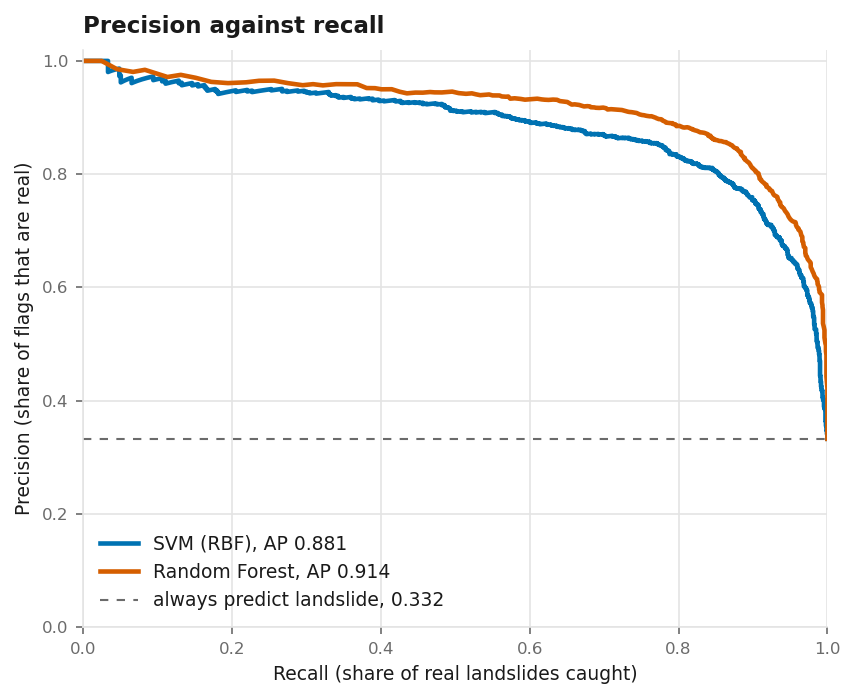
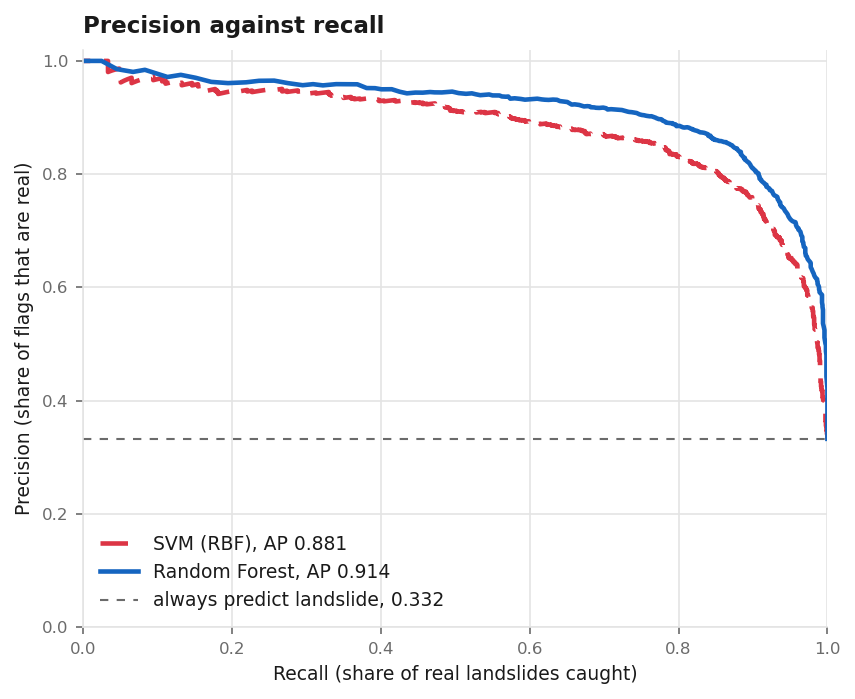
style: scheme 4 clean white academic theme — Phase 2 files
- .streamlit/config.toml: primary #1565c0, background #ffffff,
  secondary #f0f4f8, text #222222, sans serif (usage stats and
  toolbar settings kept)
- viz.py: model colours separate from class colours, Random Forest
  #1565c0 solid and SVM #dc3545 dashed; class colours unchanged
- evaluate.py: ROC and precision-recall use them; figures regenerated,
  metrics unchanged
- demo_map.py: zone ramp to scheme 4, light to dark, lightness steps
  at least 10 L* and colour-blind separation at least 19 (measured);
  light basemap moved from CartoDB (now serves "API KEY REQUIRED"
  tiles) to Esri World Light Gray
- dashboard/app.py: synthetic banner and watermark in scheme 4 tokens
- docs/decisions.md: the colour decision with its measurements

diff --git a/src/demo_map.py b/src/demo_map.py
@@ -52,11 +52,13 @@ MODELS = {
     "svm": ("SVM (RBF)", config.SVM_MODEL_PATH),
 }
 
-# One hue, light to dark, for five ordered zones: an ordinal scale, so no rainbow and no
-# green-to-red (which also fails for red-green colour-blind readers). Vermillion matches the
-# landslide colour in every report figure. Checked with a palette validator for an ordinal ramp on
-# a light basemap: every step clears 2:1 contrast and neighbouring steps stay distinguishable.
-ZONE_COLOURS = ["#ec9a60", "#e27a3a", "#d55e00", "#a94700", "#6e2c00"]
+# Five ordered zones on one light-to-dark ramp (scheme 4, 17 September 2026; replaces a single vermillion ramp).
+# The order is carried by lightness, so the map still reads in black and white: CIELAB L* 91.5, 81.6, 69.7,
+# 48.5, 19.7, every step at least 10 units. Neighbouring zones stay apart for red-green colour-blind readers:
+# simulated deuteranopia and protanopia (Machado et al. 2009) give a colour difference of at least 19.
+# Low was lightened from #74c476 to #a1d99b because that shade sat only 2.9 L* above Moderate.
+# Imported by map_generator_full.py, predict_raster_full.py and dashboard_v2, so every map shares it.
+ZONE_COLOURS = ["#d4edda", "#a1d99b", "#fd8d3c", "#e31a1c", "#67000d"]
 
 # SYNTHETIC MODELS ONLY. The simulated dataset invented its own class names, while the rasters carry
 # WorldCover and SoilGrids names. Without a bridge every real class would be unknown to the model and
@@ -234,7 +236,12 @@ def render_map(zones: np.ndarray, grid: dict, geometry, zone_rows: list[dict], l
 
     fmap = folium.Map(location=[(south + north) / 2, (west + east) / 2], zoom_start=10,
                       tiles=None, control_scale=True)
-    folium.TileLayer("CartoDB positron", name="Light basemap").add_to(fmap)
+    # Esri's light canvas, not CartoDB positron: CartoDB started requiring an API key and now serves tiles
+    # stamped "API KEY REQUIRED" (seen 17 September 2026). Esri needs no key, like the imagery layer below.
+    folium.TileLayer(
+        tiles="https://server.arcgisonline.com/ArcGIS/rest/services/Canvas/World_Light_Gray_Base/MapServer/tile/"
+              "{z}/{y}/{x}",
+        attr="Tiles &copy; Esri", name="Light basemap", max_zoom=16).add_to(fmap)
     folium.TileLayer("OpenStreetMap", name="OpenStreetMap").add_to(fmap)
     folium.TileLayer(
         tiles="https://server.arcgisonline.com/ArcGIS/rest/services/World_Imagery/MapServer/tile/{z}/{y}/{x}",

diff --git a/src/evaluate.py b/src/evaluate.py
@@ -112,12 +112,13 @@ def plot_roc(y_true, scored: dict):
     import matplotlib.pyplot as plt
     from sklearn.metrics import roc_auc_score, roc_curve
 
-    colours = {"SVM (RBF)": viz.STABLE, "Random Forest": viz.LANDSLIDE}
+    colours = viz.MODEL_COLORS
     fig, ax = plt.subplots(figsize=(6.4, 6))
     for name, scores in scored.items():
         fpr, tpr, _ = roc_curve(y_true, scores)
         auc = roc_auc_score(y_true, scores)
-        ax.plot(fpr, tpr, color=colours[name], linewidth=2.2, label=f"{name}, AUC {auc:.3f}")
+        ax.plot(fpr, tpr, color=colours[name], linestyle=viz.MODEL_LINESTYLES[name], linewidth=2.2,
+                label=f"{name}, AUC {auc:.3f}")
     ax.plot([0, 1], [0, 1], color=viz.MUTED, linewidth=1, linestyle=(0, (4, 4)),
             label="random guessing, AUC 0.500")
     ax.set_xlabel("False positive rate (stable ground flagged as risky)")
@@ -160,13 +161,14 @@ def plot_precision_recall(y_true, scored: dict):
     import matplotlib.pyplot as plt
     from sklearn.metrics import average_precision_score, precision_recall_curve
 
-    colours = {"SVM (RBF)": viz.STABLE, "Random Forest": viz.LANDSLIDE}
+    colours = viz.MODEL_COLORS
     base = float(np.mean(y_true))
     fig, ax = plt.subplots(figsize=(6.4, 5))
     for name, scores in scored.items():
         precision, recall, _ = precision_recall_curve(y_true, scores)
         ap = average_precision_score(y_true, scores)
-        ax.plot(recall, precision, color=colours[name], linewidth=2.2, label=f"{name}, AP {ap:.3f}")
+        ax.plot(recall, precision, color=colours[name], linestyle=viz.MODEL_LINESTYLES[name], linewidth=2.2,
+                label=f"{name}, AP {ap:.3f}")
     ax.axhline(base, color=viz.MUTED, linewidth=1, linestyle=(0, (4, 4)),
                label=f"always predict landslide, {base:.3f}")
     ax.set_xlabel("Recall (share of real landslides caught)")

diff --git a/dashboard/app.py b/dashboard/app.py
@@ -41,7 +41,7 @@ WATERMARK_HTML = """
   position: fixed; top: 55%; left: 50%;
   transform: translate(-50%, -50%) rotate(-24deg);
   font: 800 clamp(3rem, 9vw, 7rem)/1 system-ui, -apple-system, "Segoe UI", sans-serif;
-  letter-spacing: 0.06em; color: rgba(213, 94, 0, 0.08);
+  letter-spacing: 0.06em; color: rgba(227, 26, 28, 0.08);  /* scheme 4 danger #e31a1c, faint */
   white-space: nowrap; pointer-events: none; user-select: none; z-index: 999;
 }
 </style>
@@ -141,11 +141,12 @@ def evaluation_section() -> dict:
 def synthetic_banner() -> None:
     """The first thing an examiner sees on the homepage: these results test the pipeline, they are not findings."""
     st.markdown(
-        '<div style="border:2px solid #D55E00;border-left-width:8px;border-radius:6px;padding:14px 18px;'
-        'margin:0 0 1.2rem;background:rgba(213,94,0,0.06)">'
-        '<div style="font-weight:800;font-size:1.2rem;letter-spacing:0.05em;color:#0b0b0b">'
+        # Scheme 4: danger red #e31a1c on a faint tint, text in the theme's #222222.
+        '<div style="border:2px solid #e31a1c;border-left-width:8px;border-radius:6px;padding:14px 18px;'
+        'margin:0 0 1.2rem;background:rgba(227,26,28,0.06)">'
+        '<div style="font-weight:800;font-size:1.2rem;letter-spacing:0.05em;color:#222222">'
         'SYNTHETIC DATA: RESULTS ARE NOT FINAL</div>'
-        '<div style="margin-top:6px;color:#1a1a1a">Every number, chart, prediction and map in this dashboard '
+        '<div style="margin-top:6px;color:#222222">Every number, chart, prediction and map in this dashboard '
         'comes from a simulated dataset built to test the pipeline end to end. The real GSI landslide '
         'inventory has not been processed yet, so none of these results describe Uttarakhand. Both models '
         'will be retrained on real data before any result is reported.</div></div>',

diff --git a/src/viz.py b/src/viz.py
@@ -7,6 +7,10 @@ landslides. Checked with a palette validator: colour-blind separation dE 21.9
 3:1 contrast on a light page. So the two classes stay apart for colour-blind
 readers and in greyscale printing, which matters for a printed report.
 
+Model colours are separate from class colours (scheme 4, 17 September 2026): Random Forest blue #1565c0 and
+SVM red #dc3545, used wherever the two models are drawn against each other (ROC and precision-recall curves).
+They name models, never classes, so a landslide/stable chart keeps the class colours above.
+
 Correlations use a diverging blue-to-red scale with a neutral midpoint, because
 the value has a natural centre at zero. Never a rainbow scale: it invents
 boundaries where the data has none.
@@ -23,6 +27,13 @@ STABLE = "#0072B2"
 LANDSLIDE = "#D55E00"
 CLASS_COLORS = {0: STABLE, 1: LANDSLIDE}
 CLASS_LABELS = {0: "No landslide", 1: "Landslide"}
+
+# Model colours (scheme 4): kept apart from the class colours on purpose
+RF_COLOR = "#1565c0"
+SVM_COLOR = "#dc3545"
+MODEL_COLORS = {"Random Forest": RF_COLOR, "SVM (RBF)": SVM_COLOR}
+# The two model colours are close in lightness (L* 43 and 50), so line style keeps them apart in black and white.
+MODEL_LINESTYLES = {"Random Forest": "-", "SVM (RBF)": (0, (6, 3))}
 
 # Ink and furniture: text stays in neutral ink, colour belongs to the marks only.
 INK = "#1a1a1a"

diff --git a/docs/decisions.md b/docs/decisions.md
@@ -335,3 +335,43 @@ synthetic-era wording. The Explainability caption claimed SHAP runs "in seconds"
 
 **Tidy-up:** `verify_phase2.py` now also parses `dashboard_v2/app.py`, `run_phase2.py` and `run_phase3.py`;
 `run_phase3.py` estimates updated to the real runs (SHAP 60 to 120 s, state raster 9 to 11 min).
+
+## 17 September 2026: scheme 4 clean white theme and zone colours
+
+Zone colors updated to Scheme 4 light-to-dark single ramp. Lightness steps verified ≥10 units. Color-blind
+separation verified ΔE≥19.
+
+The light-to-dark single ramp is retained: the zones are ordered, so their order is carried by lightness and the
+map still reads in black and white. Only the colours changed, from one vermillion hue to a green-to-dark-red ramp
+set in `src/demo_map.py` `ZONE_COLOURS` (imported by the state map, the raster colour tables and dashboard v2):
+
+| Zone | Colour | CIELAB L* | Step to next | Colour difference to next: normal / deuteranopia / protanopia |
+|---|---|---|---|---|
+| Very Low | `#d4edda` | 91.5 | -9.9 | 27.7 / 20.1 / 23.3 |
+| Low | `#a1d99b` | 81.6 | -12.0 | 75.8 / 39.6 / 32.1 |
+| Moderate | `#fd8d3c` | 69.7 | -21.2 | 40.8 / 19.4 / 32.0 |
+| High | `#e31a1c` | 48.5 | -28.8 | 49.8 / 42.6 / 33.2 |
+| Very High | `#67000d` | 19.7 | | |
+
+Colour-blind simulation: Machado et al. (2009), severity 1.0. The first proposal used `#74c476` for Low, which sat
+only 2.9 L* above Moderate (the two would print as the same grey), so Low was lightened to `#a1d99b`.
+
+Other scheme 4 changes:
+- `.streamlit/config.toml`: primary `#1565c0`, background `#ffffff`, secondary background `#f0f4f8`, text
+  `#222222`, sans serif (usage statistics off and minimal toolbar kept).
+- `src/viz.py`: model colours separate from class colours, Random Forest `#1565c0` solid and SVM `#dc3545`
+  dashed. The two are far apart in colour (difference 100 normal, 97 deuteranopia, 68 protanopia) but close in
+  lightness (L* 43 and 50), so the dashed line keeps them apart in black and white. Class colours (stable
+  `#0072B2`, landslide `#D55E00`) are unchanged.
+- State map landslide markers: navy `#0d1b2a` with a thin white outline, because red markers would disappear
+  into the new red High zone.
+
+Two map fixes made with the same change (18 September 2026):
+- **Light basemap:** CartoDB positron now serves tiles stamped "API KEY REQUIRED", so `src/demo_map.py` uses Esri
+  World Light Gray Base instead (no key, same source as the imagery layer). Checked on 17 September by HTTP status
+  only, which returned 200 for a watermarked tile: the error was reading a status code as proof of content.
+- **Zone raster colour tables:** `susceptibility_uk_zones.tif` and `susceptibility_rudraprayag_zones.tif` carried
+  the old ramp in their GeoTIFF colour table (what QGIS shows). Rewritten in place from `ZONE_COLOURS` with
+  `write_colormap`, no rescoring; index 0 stays transparent for NoData. Future `predict_raster_full.py` runs write
+  the new colours themselves.
+- **State map markers:** navy `#0d1b2a` fill at 0.7, white outline at 0.9, radius 4, weight 1.
